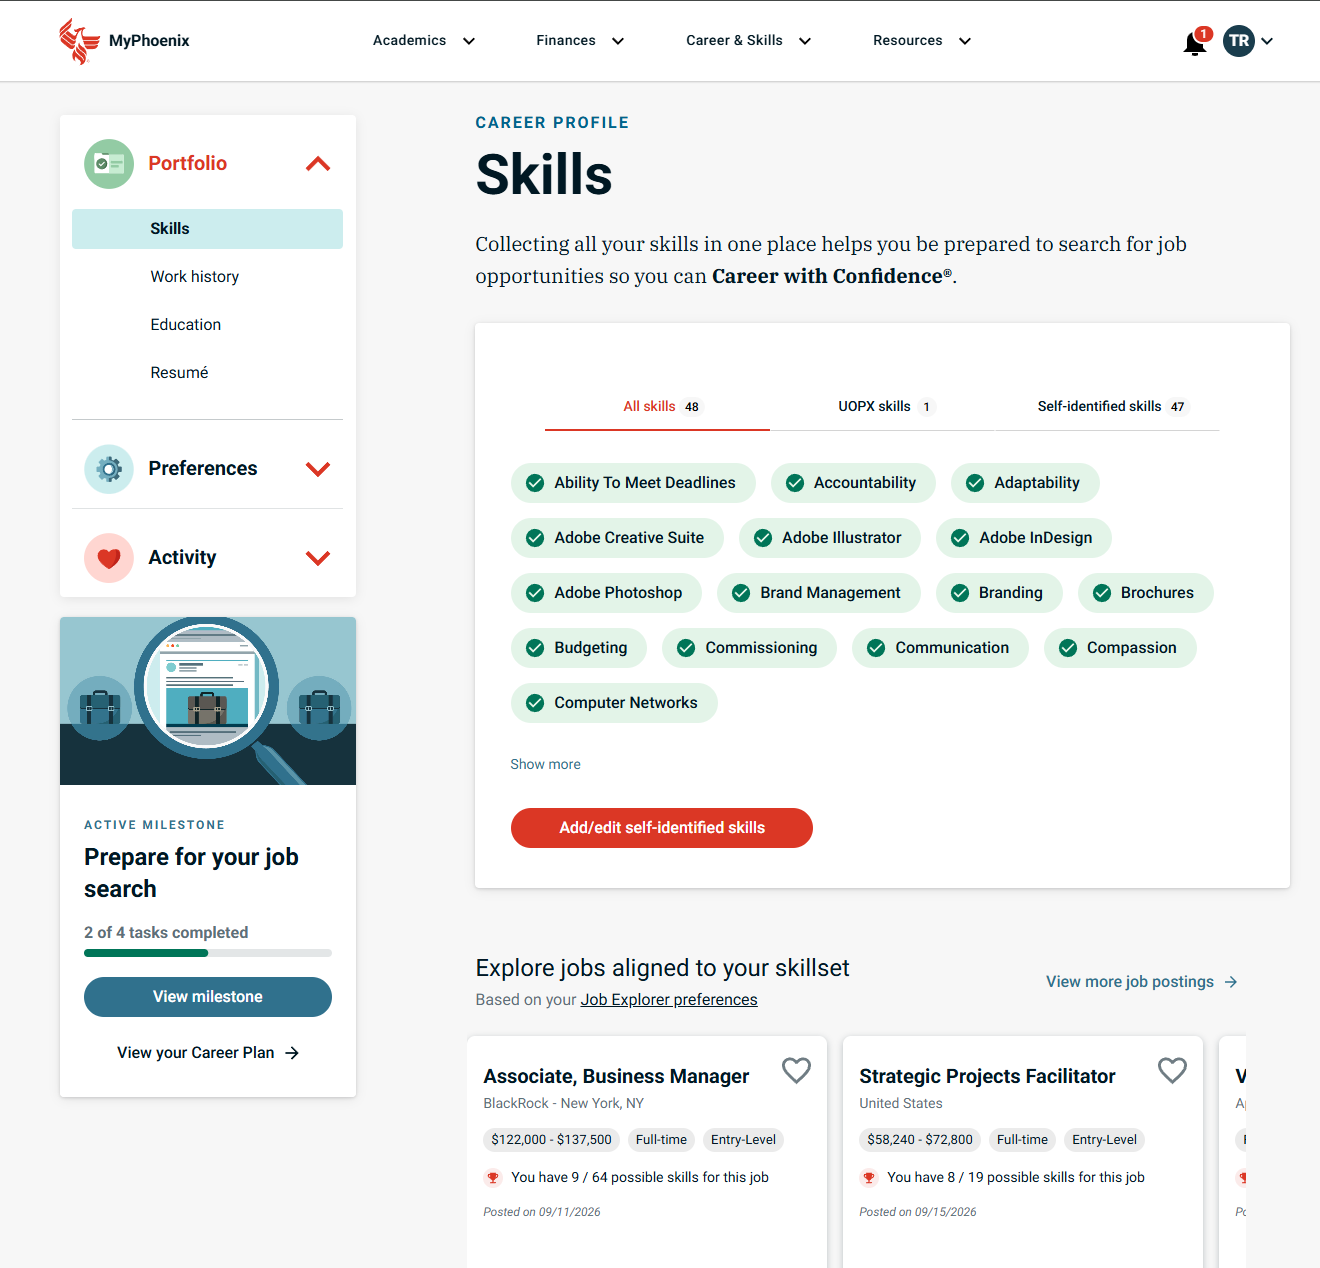
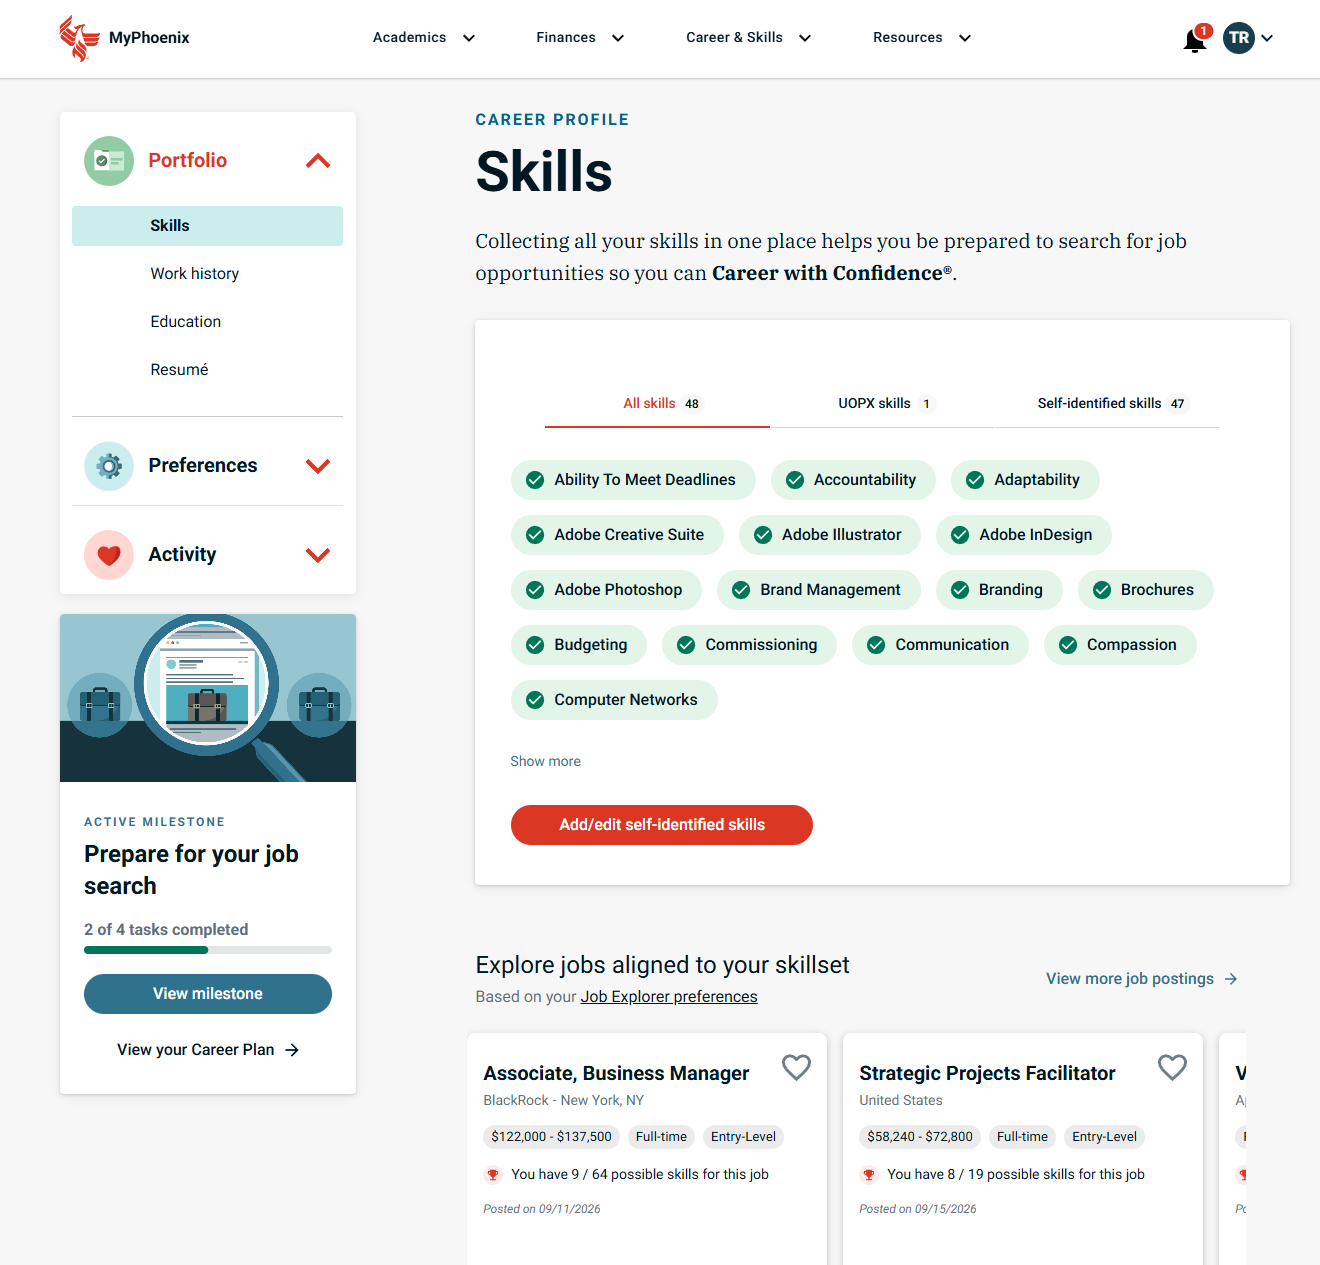
Career Profile story: UpdateR1 copy, stats, images; add bare plates + gallery carousel
Rewrites the Career Profile story around the persona experiment and the
work-history skill inference, and adds the two reusable block options the
new layout needed.

js/content.js (career-profile only):
- Facts/impact lead with skills added (+1M in 8 months, 3.6M to date)
- Split the bare first release onto skills-profile-v1 with a third
  paragraph on sunsetting the old dashboard
- Persona experiment: new two-up gallery, a five-image carousel of the
  result modals, and metrics blocks for the lift
- Work history reframed around inferred skills
- Decision cards 02 and 03 replaced; timeline nodes 04/05 swapped

js/story.js:
- plate() honours `bare: true` -> .plate--bare
- gallery honours `carousel: true` -> arrow-nav carousel, wired by
  wireCarousels() from render()

css/styles.css:
- .plate--bare for mockups that carry their own frame
- carousel styles, one card per view under 719px
- drop the decision-card stagger so cards sit top-aligned (all stories)

diff --git a/js/content.js b/js/content.js
@@ -288,7 +288,7 @@ window.SITE = {
         { label: "Role", value: "Lead / sole product designer" },
         { label: "Team", value: "Product trio: PM + tech lead + engineering" },
         { label: "Responsibilities", value: "Discovery, research, experimentation, UX/UI" },
-        { label: "Impact", value: ["11.9K monthly users", "36.2K monthly skills page hits"] }
+        { label: "Impact", value: ["+1M skills in the first 8 months", "3.6M skills to date"] }
       ],
 
       next: {
@@ -301,7 +301,7 @@ window.SITE = {
         {
           type: "figure",
           width: "full",
-          image: "assets/stories/career-profile/career-profile-final.png", w: 1320, h: 1268,
+          image: "assets/stories/career-profile/career-profile-final.png", w: 1320, h: 1265,
           alt:
             "The mature Career Profile: a portfolio nav for skills, work history, education and resume, a skills panel split into UOPX and self-identified skills, an active career milestone card, and a row of job cards aligned to the user's skillset.",
           caption:
@@ -334,11 +334,92 @@ window.SITE = {
           flip: true,
           heading: "The first release was deliberately bare.",
           body:
-            "Version one held self-identified skills only, but it did one important thing: those skills fed Job Explorer results. From the first release, adding a skill visibly changed what the product showed you.\n\nA later release combined university-earned skills with self-identified ones in a single view. I kept them visually distinct on purpose because university skills were evidence of what the user was paying for, and treating them differently gave them more weight.",
-          image: "assets/stories/career-profile/skills-profile-first.png", w: 862, h: 1173,
+            "Version one held self-identified skills only, but it did one important thing: those skills fed Job Explorer results. From the first release, adding a skill visibly changed what the product showed you.\n\nA later release combined university-earned skills with self-identified ones in a single view. I kept them visually distinct on purpose because university skills were evidence of what the user was paying for, and treating them differently gave them more weight.\n\nSunsetting the old dashboard and giving every skill one home changed how much the profile got used. Job Explorer traffic rose with it, even though the old dashboard had linked straight to Job Explorer too. Seeing your skills next to the jobs they lined up with is where it started to click.",
+          image: "assets/stories/career-profile/skills-profile-v1.png", w: 1500, h: 1323, bare: true,
           alt:
-            "The first standalone skills profile: a three-column list of self-identified skills with an add/edit skills button, above cards for viewing jobs, getting career advice and updating a resumé.",
+            "The first standalone Skills Profile builder on a desktop monitor: a how-it-works list, a My Skills panel filtered by all, UOPX and self-identified skills, and an add/edit self-identified skills button.",
           caption: "The first standalone skills profile, launched alongside Job Explorer."
+        },
+
+        {
+          type: "metrics",
+          items: [
+            { value: "700%", label: "more Skills Profile users (2,000 → 16,000)" },
+            { value: "471%", label: "more traffic to Job Explorer" },
+            { value: "322.7%", label: "more Apply Now in Job Explorer" }
+          ]
+        },
+
+        {
+          type: "gallery",
+          heading: "More skills meant more applications, so we tested ways to earn them.",
+          body:
+            "Our OKR was the Apply Now rate in Job Explorer, and profile depth was one of the clearest levers we had: people with 10 or more skills on their profile were more likely to apply. The job for Career Profile became simple to state and hard to do: get people to add more skills.\n\nOne of the more meaningful experiments was a persona-based nudge. Users picked the sentence that best described their career goal, and in exchange we offered a “personalized” next step. The next step was always the same, add self-identified skills, but the wording changed to speak to where each person was.",
+          cols: 2,
+          items: [
+            {
+              image: "assets/stories/career-profile/persona-modal.png", w: 640, h: 625,
+              alt:
+                "A modal over My Skills asking “Would you like a personalized career suggestion, Kristie?” with five career-goal sentences to choose from and a Submit button.",
+              caption: "Users chose the sentence that best fit their career goal."
+            },
+            {
+              image: "assets/stories/career-profile/persona-list.png", w: 831, h: 410,
+              alt:
+                "The six career personas behind those sentences: Career Starter, Career Enhancer, Career Switcher, Career Relaunch, Military to Civilian Transition, and Entrepreneur.",
+              caption: "Each sentence mapped to a career persona."
+            }
+          ]
+        },
+
+        {
+          type: "gallery",
+          carousel: true,
+          items: [
+            {
+              image: "assets/stories/career-profile/persona-starter.png", w: 720, h: 490,
+              alt: "The follow-up modal for a “starter”: you may have more skills than you think, even babysitting counts.",
+              caption: "Starter: you may have more skills than you think."
+            },
+            {
+              image: "assets/stories/career-profile/persona-enhancer.png", w: 740, h: 525,
+              alt: "The follow-up modal for an “enhancer”: take inventory of what you bring to the table.",
+              caption: "Enhancer: put the skills you worked hard for to work."
+            },
+            {
+              image: "assets/stories/career-profile/persona-switcher.png", w: 720, h: 500,
+              alt: "The follow-up modal for a “switcher”: take inventory of skills that translate into a new career.",
+              caption: "Switcher: find the skills that carry into a new career."
+            },
+            {
+              image: "assets/stories/career-profile/persona-relauncher.png", w: 720, h: 500,
+              alt: "The follow-up modal for a “relauncher”: past skills help you articulate your strengths as you move forward.",
+              caption: "Relauncher: past skills help you start back up again."
+            },
+            {
+              image: "assets/stories/career-profile/persona-none.png", w: 730, h: 505,
+              alt: "The follow-up modal for someone who chose none of the options: taking inventory helps you understand where you are.",
+              caption: "None of these: the same ask, framed around where you are today."
+            }
+          ]
+        },
+
+        {
+          type: "metrics",
+          items: [
+            { value: "22%", label: "of engaged users added skills, against a 10% baseline" },
+            { value: "1,160", label: "users added skills through the experiment" },
+            { value: "42", label: "Average skills added per user" },
+            { value: "~50K", label: "skills added during the experiment" }
+          ],
+          note: "Baseline: people who visited the Skills Profile and added at least one skill before the experiment. The experiment ran for about three weeks."
+        },
+
+        {
+          type: "prose",
+          heading: "People would trade data for a next step.",
+          body:
+            "Users who engaged with the persona nudge converted at more than twice the baseline rate, and they didn't stop at one skill. The experiment showed us that people were willing to tell us about themselves when they got a next best step in their career in return.\n\nWe used that insight to launch an entirely new product, Career Plan, built by our sister career team under my leadership. But a plan takes more than a list of skills. Career Plan needed to know where someone had worked, what they had studied and what they were working toward, and that's where the Skills Profile became Career Profile."
         },
 
         {
@@ -348,54 +429,30 @@ window.SITE = {
             "Third-party skills dashboard",
             "Self-identified skills profile",
             "University + self-identified combined",
-            "Career Profile: work, education, resumé",
-            "Connected to Job Explorer + Career Plan"
-          ]
-        },
-
-        {
-          type: "gallery",
-          heading: "Bounce rate was the real problem, so we ran experiments instead of arguments.",
-          body:
-            "Many people visited to check whether new university skills had appeared, and then left. Rather than debate what would hold their attention, we tested the asks: a persona-based nudge, a prompt inside Job Explorer at the moment skills were clearly relevant, and a skills identifier that let people add skills by past job title instead of by name.",
-          cols: 2,
-          items: [
-            {
-              image: "assets/stories/career-profile/nudge-starter.jpg", w: 539, h: 354,
-              alt: "A modal recommending that a “starter” persona add self-identified skills.",
-              caption: "Persona-based nudges tailored the reason for adding skills."
-            },
-            {
-              image: "assets/stories/career-profile/nudge-enhancer.jpg", w: 860, h: 593,
-              alt: "The same modal written for an “enhancer” persona.",
-              caption: "Same ask, different framing for someone already skills-aware."
-            },
-            {
-              image: "assets/stories/career-profile/skills-nudge.jpg", w: 916, h: 564,
-              alt:
-                "A modal on Job Explorer asking whether the user wants to explore jobs more aligned to their skillset.",
-              caption: "Asking inside Job Explorer, where the payoff was visible."
-            },
-            {
-              image: "assets/stories/career-profile/skills-identifier.jpg", w: 849, h: 466,
-              alt:
-                "The Skills Identifier modal offering to add skills by job title or by name.",
-              caption: "Adding skills by job title, for people who couldn't name their own skills."
-            }
+            "Connected to Job Explorer + Career Plan",
+            "Career Profile: work, education, resumé"
           ]
         },
 
         {
           type: "split",
           ratio: "50-50",
-          heading: "Users wouldn't hand over data that only helped us.",
+          heading: "Tell us where you worked, and we'll tell you what you know.",
           body:
-            "Work history was the clearest example. Asking someone to type in years of employment history produced very little, because nothing came back to them for the effort.\n\nTwo things changed that. Inferring skills from a job title turned the ask into a gift: tell us where you worked, and we'll tell you what you know. And once the resumé generator and Career Plan shipped, work history finally had an obvious payoff.",
-          image: "assets/stories/career-profile/work-history-skills.jpg", w: 880, h: 555,
+            "In 2024 we expanded the Skills Profile into Career Profile, adding work history, education history, Job Explorer preferences and saved career activity. Career Plan was the first product to draw on it, and a meaningful suite of career products needed the same picture of who our users were and what they wanted to achieve.\n\nWork history was foundational. Rather than ask people for job titles in one place and skills in another, we let them add skills while they entered their work history. Type a job title, and the form suggests the skills that come with it.",
+          image: "assets/stories/career-profile/work-history-inferred-skills.png", w: 923, h: 743,
           alt:
             "The Career Profile work history form, suggesting related skills from the entered job title that can be added to the profile.",
           caption:
             "Enter a job title, get skills back—reciprocity in place of a data-entry request."
+        },
+
+        {
+          type: "metrics",
+          items: [
+            { value: "86%", label: "of users who added or edited work history added inferred skills" },
+            { value: "18", label: "Average skills added per user, against a goal of 10" }
+          ]
         },
 
         {
@@ -408,14 +465,14 @@ window.SITE = {
                 "I wanted these to feel different so university-earned skills carried more weight. It was a retention argument as much as a clarity one: staying enrolled visibly added to what you owned."
             },
             {
-              title: "Removing the career-advising callout",
+              title: "Turning off the Persona Experiment",
               body:
-                "We tested a site stripe, an advisor card, and prompts to add skills. The advisor callout didn't earn its space in this experience, so I took it out rather than let the page accumulate asks."
+                "Although it performed really well, it wasn't meant to be a production feature. We took what we learned and made a more meaningful product out of it."
             },
             {
-              title: "Letting go of “upcoming skills”",
+              title: "Removing a Career Advising callout",
               body:
-                "The old dashboard promised skills from future courses. The data didn't exist at scale in the new stack, so we shipped without it and partnered with a data team on the endpoints rather than fake it."
+                "We added a callout to schedule time with a career advisor, and it only converted at 1.7%. This wasn't the right place for that suggestion, so we replaced it with Career Plan progress instead."
             }
           ]
         },
@@ -441,9 +498,9 @@ window.SITE = {
         {
           type: "impact",
           heading: "One place to update. Many places it paid off.",
-          primary: { value: "11.9K", label: "monthly Career Profile users" },
+          primary: { value: "3.6M", label: "skills added by users" },
           secondary: [
-            { value: "36.2K", label: "monthly skills page hits" },
+            { value: "11.9K", label: "monthly Career Profile users" },
             { value: "10+", label: "skills correlated with higher Apply Now" }
           ],
           body:

diff --git a/js/story.js b/js/story.js
@@ -56,7 +56,7 @@
     if (b.video) return film(b);
     if (!b.image) return "";
     const inner = `<div class="plate__shot">${img(b, eager)}</div>`;
-    if (!b.tall) return `<div class="plate">${inner}</div>`;
+    if (!b.tall) return `<div class="plate${b.bare ? " plate--bare" : ""}">${inner}</div>`;
     return `<div class="plate plate--tall">
       ${inner}
       <a class="plate__open" href="${e(b.image)}" target="_blank" rel="noopener">
@@ -168,7 +168,12 @@
       <section class="story-block story-gallery reveal">
         ${b.heading ? `<h2 class="story-h2">${e(b.heading)}</h2>` : ""}
         ${b.body ? `<div class="story-gallery__lede">${paras(b.body)}</div>` : ""}
-        <div class="gallery gallery--${b.cols || 2}">
+        ${b.carousel ? `<div class="carousel" data-carousel>
+          <div class="carousel__nav">
+            <button type="button" class="carousel__btn" data-carousel-prev aria-label="Previous">←</button>
+            <button type="button" class="carousel__btn" data-carousel-next aria-label="Next">→</button>
+          </div>` : ""}
+        <div class="gallery ${b.carousel ? "gallery--carousel" : `gallery--${b.cols || 2}`}"${b.carousel ? ' tabindex="0" aria-label="Scrollable gallery"' : ""}>
           ${(b.items || [])
             .map(
               (it) => `<figure class="gallery__item">
@@ -178,6 +183,7 @@
             )
             .join("")}
         </div>
+        ${b.carousel ? "</div>" : ""}
       </section>`,
 
     cards: (b) => `
@@ -438,6 +444,31 @@
     });
   }
 
+  /* carousels: arrow buttons scroll one card at a time; disabled at either end */
+  function wireCarousels(scope) {
+    scope.querySelectorAll("[data-carousel]").forEach((wrap) => {
+      const track = wrap.querySelector(".gallery--carousel");
+      const prev = wrap.querySelector("[data-carousel-prev]");
+      const next = wrap.querySelector("[data-carousel-next]");
+      if (!track) return;
+      const step = () => {
+        const item = track.querySelector(".gallery__item");
+        const gap = parseFloat(getComputedStyle(track).columnGap) || 0;
+        return item ? item.getBoundingClientRect().width + gap : track.clientWidth;
+      };
+      const sync = () => {
+        const max = track.scrollWidth - track.clientWidth - 2;
+        prev.disabled = track.scrollLeft <= 2;
+        next.disabled = track.scrollLeft >= max;
+      };
+      prev.addEventListener("click", () => track.scrollBy({ left: -step(), behavior: "smooth" }));
+      next.addEventListener("click", () => track.scrollBy({ left: step(), behavior: "smooth" }));
+      track.addEventListener("scroll", sync, { passive: true });
+      window.addEventListener("resize", sync);
+      sync();
+    });
+  }
+
   function render() {
     const p = story;
     document.title = `${p.title} · Kristie Campbell`;
@@ -488,6 +519,7 @@
 
     window.observeReveals(root);
     wireFilms(root);
+    wireCarousels(root);
     window.scrollTo(0, 0);
   }
 

diff --git a/css/styles.css b/css/styles.css
@@ -2232,6 +2232,15 @@ body.menu-open {
   display: block;
 }
 
+/* device mockups that carry their own frame: no plate, sits on the page background */
+.plate--bare {
+  background: none;
+  border: 0;
+  border-radius: 0;
+  box-shadow: none;
+  overflow: visible;
+}
+
 .plate__shot img {
   width: 100%;
   height: auto;
@@ -2824,6 +2833,65 @@ body.menu-open {
   margin: 0;
 }
 
+/* carousel: one row of cards that scrolls sideways, snapping card by card */
+.carousel {
+  position: relative;
+}
+
+.carousel__nav {
+  display: flex;
+  justify-content: flex-end;
+  gap: 8px;
+  margin-top: clamp(24px, 3.5vw, 40px);
+}
+
+.carousel__btn {
+  width: 44px;
+  height: 44px;
+  border-radius: 50%;
+  border: 1px solid var(--line);
+  background: var(--paper-2);
+  color: var(--charcoal);
+  font-size: 18px;
+  cursor: pointer;
+  transition: background .2s, color .2s, opacity .2s;
+}
+
+.carousel__btn:hover:not(:disabled) {
+  background: var(--charcoal);
+  color: var(--paper-2);
+}
+
+.carousel__btn:disabled {
+  opacity: .35;
+  cursor: default;
+}
+
+.gallery--carousel {
+  display: grid;
+  grid-auto-flow: column;
+  grid-auto-columns: 46%;
+  overflow-x: auto;
+  scroll-snap-type: x mandatory;
+  scrollbar-width: none;
+  margin-top: 16px;
+  padding-bottom: 4px;
+}
+
+.gallery--carousel::-webkit-scrollbar {
+  display: none;
+}
+
+.gallery--carousel .gallery__item {
+  scroll-snap-align: start;
+}
+
+@media (max-width: 719px) {
+  .gallery--carousel {
+    grid-auto-columns: 86%;
+  }
+}
+
 .gallery__item .story-caption {
   font-size: 13px;
   margin-top: 12px;
@@ -2853,21 +2921,6 @@ body.menu-open {
   background: var(--paper-2);
   border-radius: 18px;
   border: 1px solid var(--line);
-}
-
-/* a gentle stagger so three cards don't read as a table */
-@media (min-width: 900px) {
-  .decision:nth-child(2) {
-    transform: translateY(28px);
-  }
-
-  .decision:nth-child(3) {
-    transform: translateY(56px);
-  }
-
-  .story-cards {
-    padding-bottom: 56px;
-  }
 }
 
 .decision__num {
